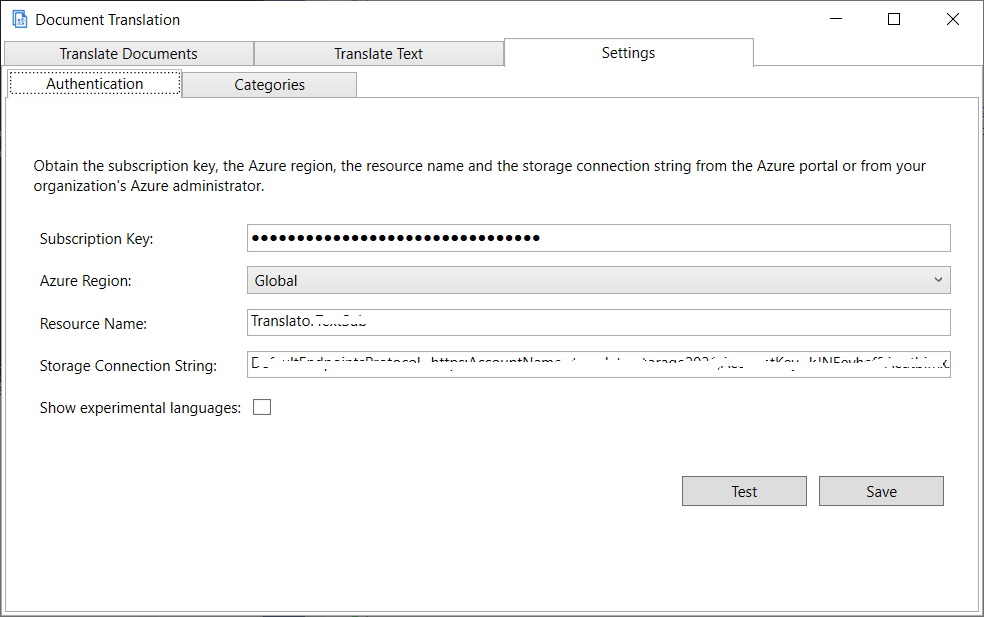
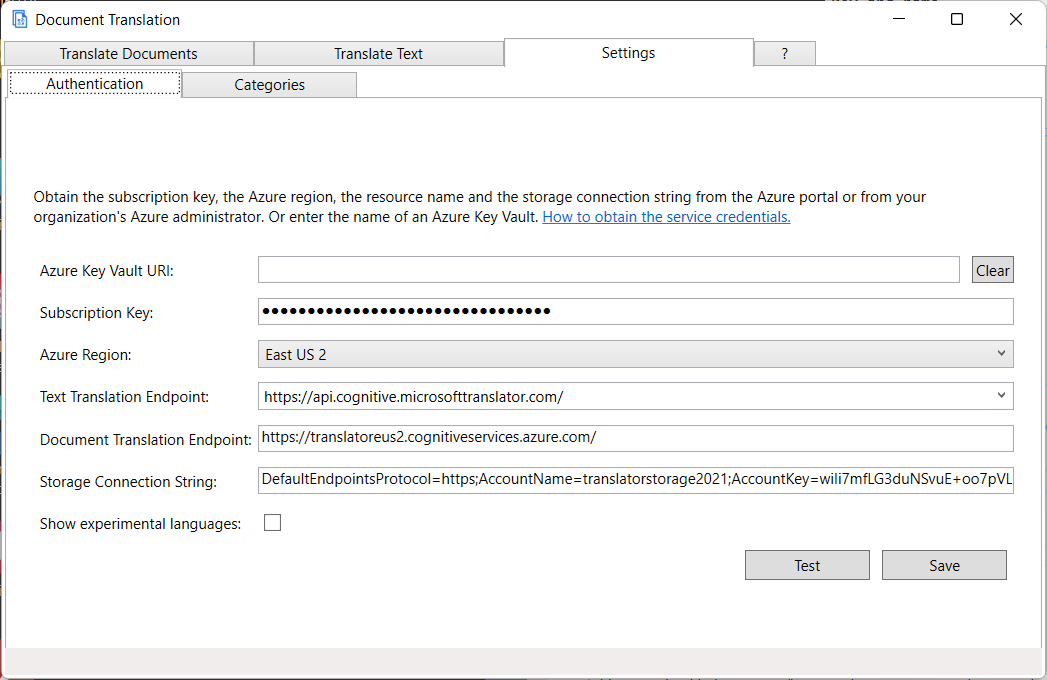
Changes for Azure Government

diff --git a/docs/index.md b/docs/index.md
@@ -69,11 +69,16 @@ Visit the properties of your Translator resource.
 ![Translator Key and Name](images/translatorkey.png)
 
 -------------------
-Copy the key to the "Subscription Key" field in the Settings/Authentication tab.
+Copy the Key to the "Subscription Key" field in the Settings/Authentication tab.
 
-Copy the name of the resource into the "Resource Name" field in the Settings/Authentication tab.
+Copy the Text Translation endpoint to the "Text Translation Endpoint" field in the Settings/Authentication tab.
 
-Select the "Azure Region" where your Translator resource is located in the Settings/Authentication tab.
+Copy the Document Tranlsation endpoint into the "Document Translation" field in the Settings/Authentication tab.
+
+Select the "Azure Region" where your Translator resource is located in the Settings/Authentication tab. If your Azure region is not
+listed, please use a text editor, for example Notepad, to add the region into the **AzureRegionsList.tsv** file that is in the same
+folder as the Document Translation app itself. If your Translator service is in an **Azure sovereign region**, there will be a need to add the
+region manually. 
 
 ![Settings Dialog](images/SettingsDialog.png)
 
